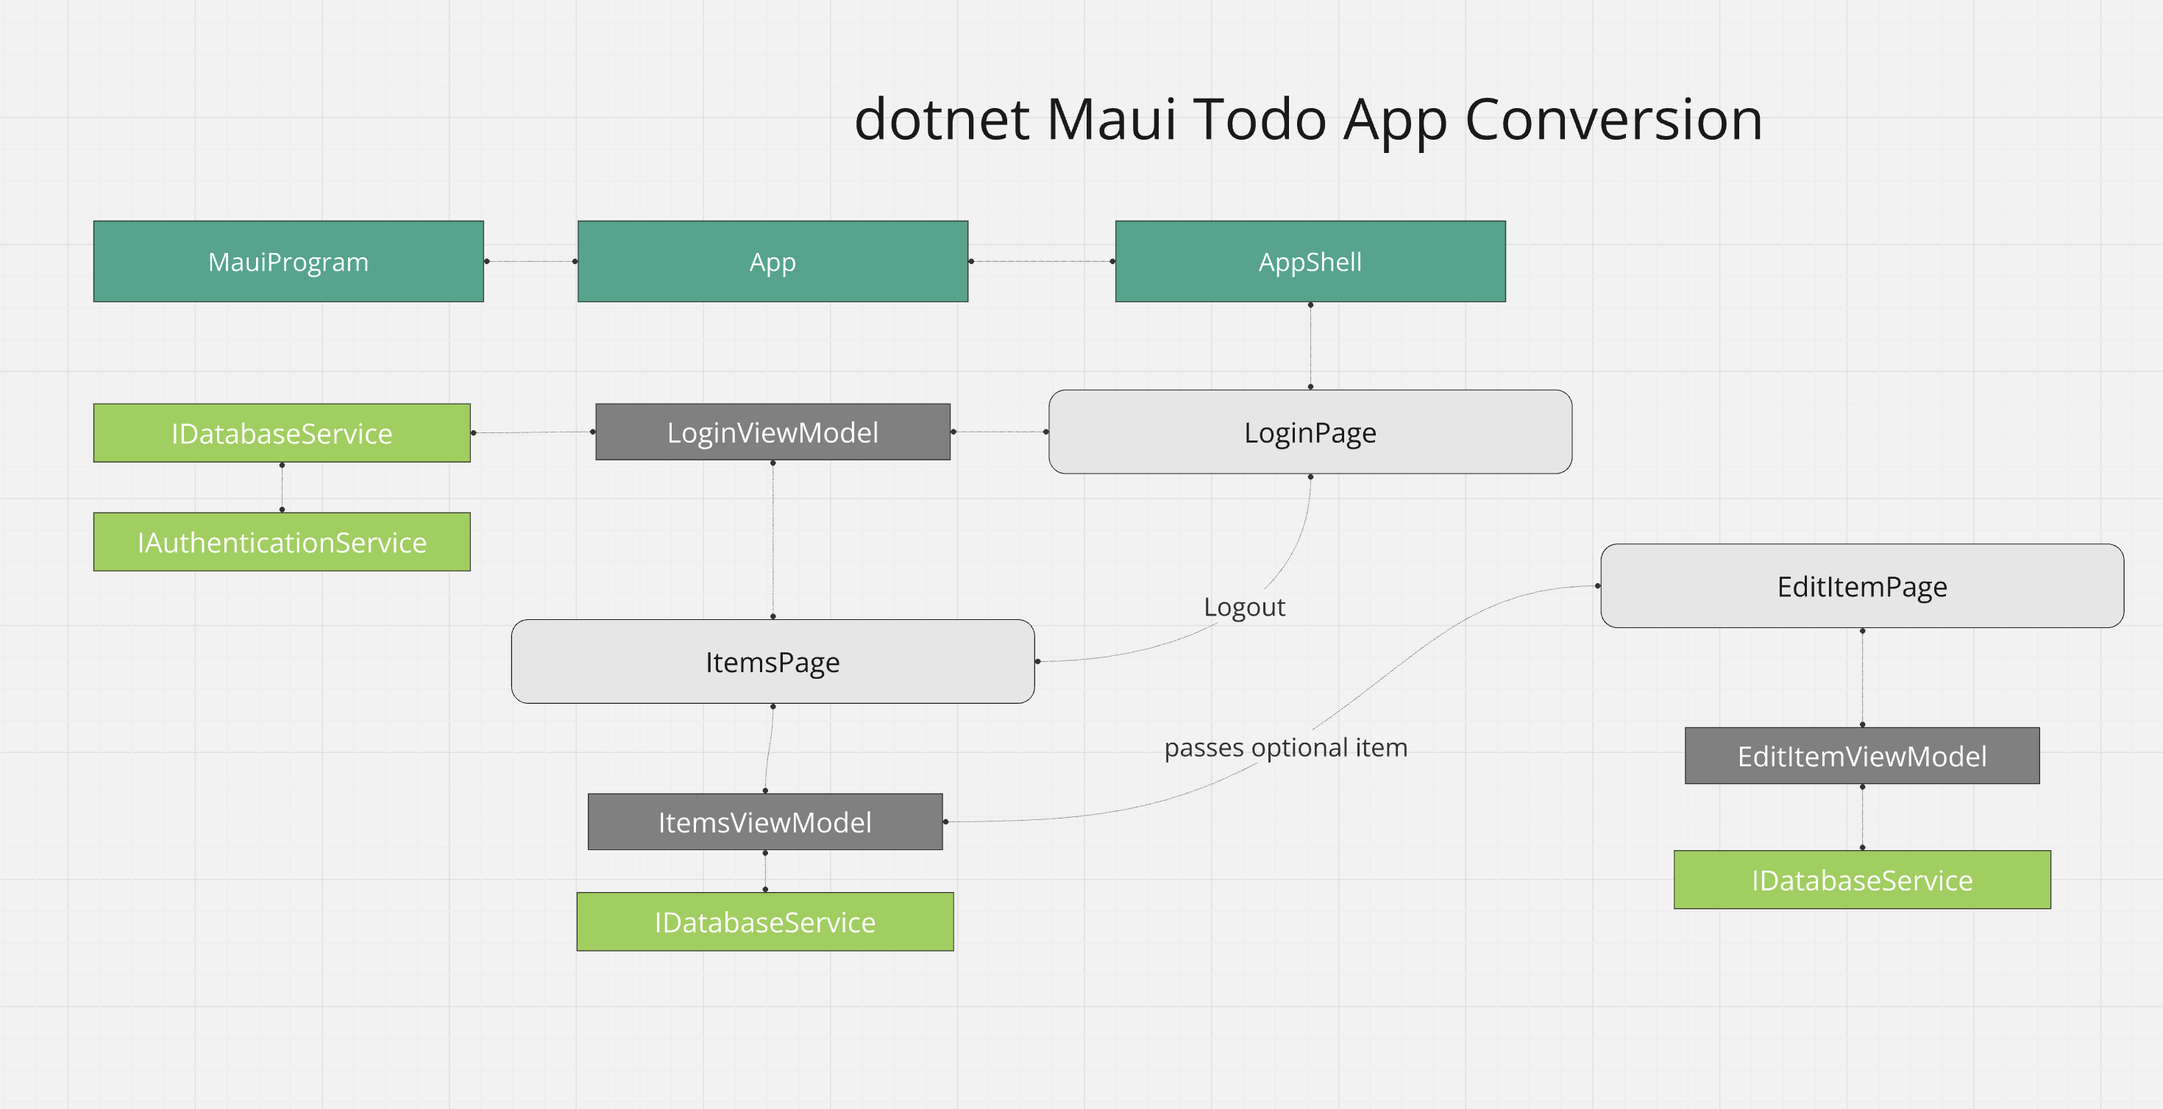
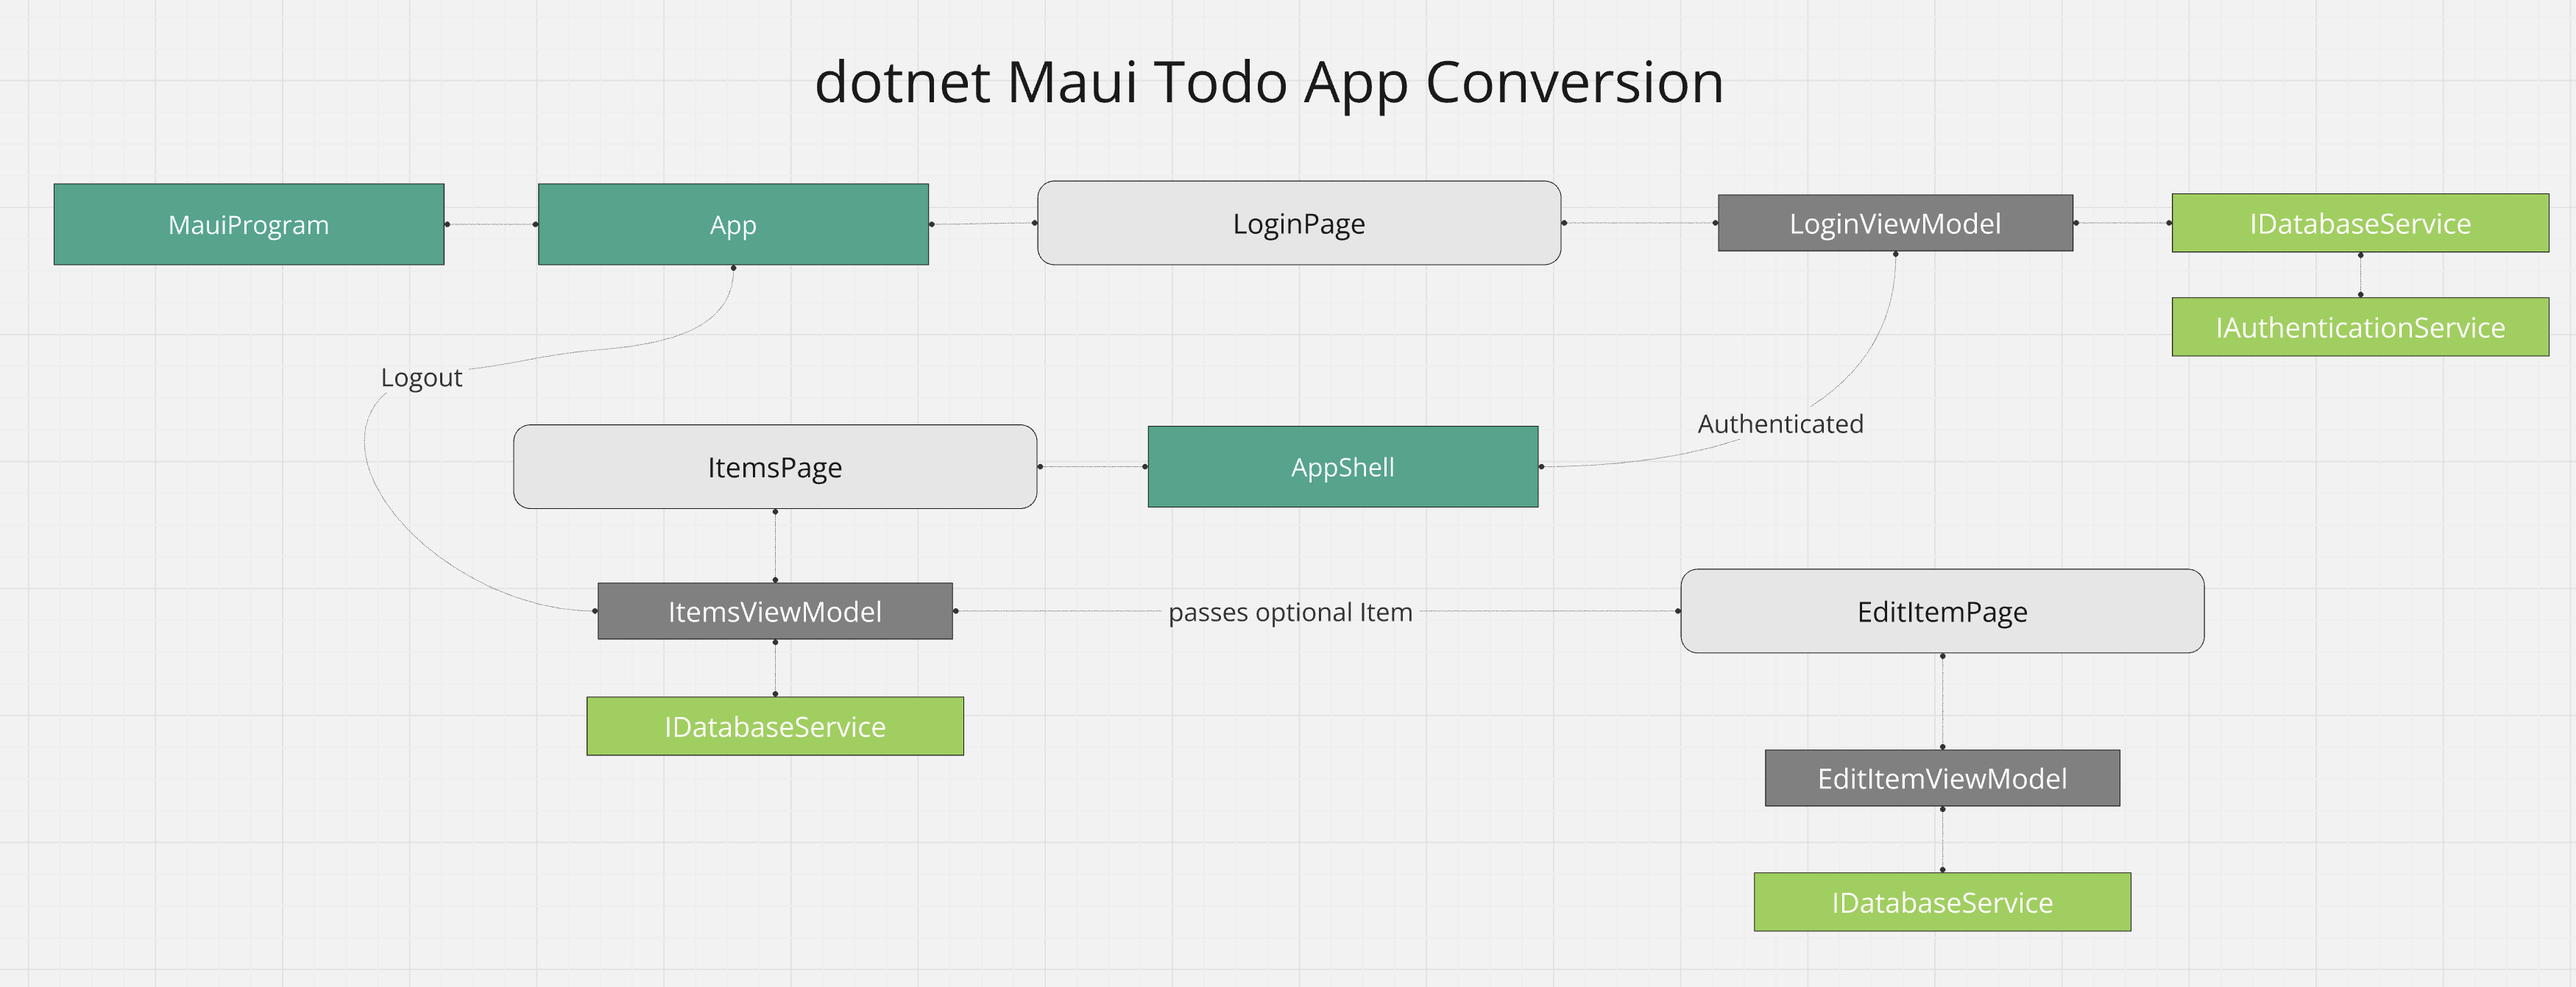
updated app directions

diff --git a/README.md b/README.md
@@ -23,9 +23,9 @@ The following is information on the application conversion process and what file
 
 ## Nuget Changes
 
-The original version of the application was based on .NET version 7.0 and the Maui Workload for .NET 7.0.  The app was upgraded to .NET 8 and the Maui workload for .NET 8 because this release is under long-term support from Microsoft (LTS).  
+The application was initially built using .NET 7.0 and the .NET MAUI workload for that version. It has since been upgraded to .NET 8 and the corresponding .NET MAUI workload to take advantage of Microsoft’s long-term support (LTS) for this release.
 
-The [Couchbase Lite Nuget package](https://docs.couchbase.com/couchbase-lite/current/csharp/gs-install.html) was added to the [RealmToDo.csproj](https://github.com/couchbaselabs/cbl-template-app-maui-todo/blob/main/RealmTodo/RealmTodo.csproj#L48) file.  
+The Realm SDK Nuget packages were removed from the project.  The [Couchbase Lite Nuget package](https://docs.couchbase.com/couchbase-lite/current/csharp/gs-install.html) was added to the [RealmToDo.csproj](https://github.com/couchbaselabs/cbl-template-app-maui-todo/blob/main/RealmTodo/RealmTodo.csproj#L48) file.  
 
 ```xml 
 <ItemGroup>
@@ -41,5 +41,91 @@ The original source code had the configuration for Atlas App Services stored in 
 
 You will need to modify this file to add your Couchbase Capella App Services endpoint URL, as outlined in the [Capella setup instructions](./Capella.md).
 
-## App Builder changes
+## FodyWeavers Removal
+FodyWeawvers is used for the Realm Atlas Device SDK for LINQ support.  This was removed from the project as it is not needed for Couchbase Lite.
 
+## Android Registration for Couchbase Lite
+The Couchbase Lite SDK requires [registration of the SDK for Android](https://docs.couchbase.com/couchbase-lite/current/csharp/gs-install.html#activating-on-android-platform-only).  The [MainApplication](https://github.com/mongodb/template-app-maui-todo/blob/main/RealmTodo/Platforms/Android/MainApplication.cs) class was modified to register the Couchbase Lite SDK.
+
+```csharp
+
+```
+
+
+## Changes to Services 
+
+### Registering of Interfaces, Services, ViewModels, and Views
+
+The original source code relied on static classes for accessing services, which made testing challenging. To improve testability, the standard Dependency Injection (DI) pattern available in .NET MAUI was adopted.  The [MauiProgram.cs](https://github.com/couchbaselabs/cbl-template-app-maui-todo/blob/main/RealmTodo/MauiProgram.cs#L27) file was updated to register all services, view models, and views with the DI container using the builder.
+
+```csharp
+builder.Services.AddSingleton<IDatabaseService, CouchbaseService>();
+builder.Services.AddSingleton<IAuthenticationService, AuthenticationService>();
+       
+//add view models
+builder.Services.AddTransient <EditItemViewModel>();
+builder.Services.AddTransient <ItemsViewModel>();
+builder.Services.AddTransient <LoginViewModel>();
+        
+//add the views
+builder.Services.AddTransient <EditItemPage>();
+builder.Services.AddTransient <ItemsPage>();
+builder.Services.AddTransient <LoginPage>();
+```
+
+### Authentication
+
+The original source code uses the [Realms.Sync.App](https://github.com/mongodb/template-app-maui-todo/blob/main/RealmTodo/Services/RealmService.cs#L12C24-L12C39) to [handle authentication](https://github.com/mongodb/template-app-maui-todo/blob/main/RealmTodo/Services/RealmService.cs#L75).  
+
+The [Couchbase Lite SDK](https://docs.couchbase.com/couchbase-lite/current/android/replication.html#lbl-user-auth)  manages authentication differently than the [Mongo Realm SDK](https://www.mongodb.com/docs/atlas/device-sdks/sdk/dotnet/manage-users/authenticate/).  Code was added to deal with these differences. 
+
+### Handling Authencation of the App
+
+The authentication of the app is called from the [IAuthenticationService](https://github.com/couchbaselabs/cbl-template-app-maui-todo/blob/main/RealmTodo/Services/IAuthenticationService.cs#L5) interface.  The implementation [AuthenticationService](https://github.com/couchbaselabs/cbl-template-app-maui-todo/blob/main/RealmTodo/Services/AuthenticationService.cs#L6) was added to handle the authentication of the app. 
+
+ Authentication is done via the Couchbase Capella App Services Endpoint public [REST API](https://docs.couchbase.com/cloud/app-services/references/rest_api_admin.html) in the CouchbaseService [LoginAsync method](https://github.com/couchbaselabs/cbl-template-app-maui-todo/blob/main/RealmTodo/Services/CouchbaseService.cs#L249) to resolve the SDK differences between Realm SDK and Couchbase Lite SDK without having to refactor large chunks of code. 
+
+
+> **NOTE**
+>Registering new users is out of scope of the conversion, so this functionaliy was removed.  Capella App Services allows the creating of Users per endpoint via the [UI](https://docs.couchbase.com/cloud/app-services/user-management/create-user.html#usermanagement/create-app-role.adoc) or the [REST API](https://docs.couchbase.com/cloud/app-services/references/rest_api_admin.html).  For large scale applications it's highly recommended to use a 3rd party [OpendID Connect](https://docs.couchbase.com/cloud/app-services/user-management/set-up-authentication-provider.html) provider. 
+>
+
+### Create User Model
+
+The Couchbase Lite SDK doesn't provide a user object for tracking the authenticated user, so a [new model](https://github.com/couchbaselabs/cbl-realm-template-app-kotlin-todo/blob/main/app/src/main/java/com/mongodb/app/domain/User.kt) was created. 
+
+### Updating Item Domain Model
+
+The [Item](https://github.com/couchbaselabs/cbl-template-app-maui-todo/blob/main/RealmTodo/Models/Item.cs#L8) class was modified to remove the Realm annotations and to refactor some properties to meet standard .NET naming conventions.
+
+The .NET serialization library makes it easy to convert the item class to a JSON string for storage in Couchbase Lite, so changes were made to the class to make it serializable by the .NET serialization library.
+
+Some fields need to be "Observable" in order for the UI in the application to dynamically update if changes are detected.  Those fields the SetProperty and OnPropertyChanged methods were implemented from the [MVVM toolkit](https://learn.microsoft.com/en-us/dotnet/communitytoolkit/mvvm/). 
+
+
+### IDatabaseService Interface
+
+The original source code had a [RealmService](https://github.com/mongodb/template-app-maui-todo/blob/main/RealmTodo/Services/RealmService.cs#L8) class that was used to interact with the Realm Atlas Device SDK and was a static class.  This was replaced with an [IDatabaseService](https://github.com/couchbaselabs/cbl-template-app-maui-todo/blob/main/RealmTodo/Services/IDatabaseService.cs#L6) interface and a [CouchbaseService](https://github.com/couchbaselabs/cbl-template-app-maui-todo/blob/main/RealmTodo/Services/CouchbaseService.cs) class that implements the interface.  The `CouchbaseService` class is used to interact with the Couchbase Lite SDK. 
+
+### Implementation of CouchbaseService 
+A heavy amount of code was refactored to implement the [CouchbaseService](https://github.com/couchbaselabs/cbl-template-app-maui-todo/blob/main/RealmTodo/Services/CouchbaseService.cs) from the original [RealmService](https://github.com/mongodb/template-app-maui-todo/blob/main/RealmTodo/Services/RealmService.cs).  The highlights of those changes are as follows. 
+
+### Init Method 
+
+The Init method was updated to start Couchbase logging and to read in the file from the `capellaConfig.json` file.
+
+```csharp
+Database.Log.Console.Level = LogLevel.Debug;
+Database.Log.Console.Domains = LogDomain.All;
+
+//get the config from disk
+await using var fileStream = await FileSystem.Current.OpenAppPackageFileAsync("capellaConfig.json");
+using StreamReader reader = new(fileStream);
+var fileContent = await reader.ReadToEndAsync();
+AppConfig = JsonSerializer.Deserialize<CouchbaseAppConfig>(
+  fileContent,
+  new JsonSerializerOptions { PropertyNameCaseInsensitive = true }
+);
+```
+> **NOTE**
+> For more information on logging in Couchbase Lite, please review the [Documentation](https://docs.couchbase.com/couchbase-lite/current/csharp/troubleshooting-logs.html).

diff --git a/Capella.md b/Capella.md
@@ -1,0 +1,82 @@
+# Setup Couchbase Capella App Services
+This guide provides step-by-step instructions for configuring a Couchbase Capella App Services instance, which the mobile application will utilize to store and retrieve data from the cloud.  
+
+## Sign up for free account
+
+Follow the full set of directions for [setting up a free account](https://docs.couchbase.com/cloud/get-started/create-account.html).
+
+## Setup App Services instance
+
+Once you have followed the directions for setting up your cluster, follow the [directions for setting up App Services](https://docs.couchbase.com/cloud/get-started/create-account.html#app-services).
+
+## Create Scope/Collection for Data Storage
+
+When you log into Capella you should be at the Operational Cluster tab.  Click on cluster listed in the provided cluster listing.  The Home tab will appear and a listing of options should be presented. 
+
+Click on the Data Tools tab.  Once there, click the "+ Create" button on the left side of the navigation menu to create a new Scope and Collection. 
+
+The "Create a Bucket, Scope, and Collection" dialog will appear.  Enter the following information:
+
+1. Select "Existing" and make sure the bucket is selected is `travel-sample`
+
+2. For Scope, select New and enter the name of `data`
+
+3. For Collection, select New and enter the name `tasks`
+
+Click the Create button to create the new Scope and Collection.
+
+## Setup App Services Endpoint
+
+Click the App Services tab and select your created App Service from the Setup App Service Instance step.  The App Endpoints listing should appear.  Click on the + Create App Endpoint to create a new endpoint.
+
+When the Create App Endpoint screen appears enter the following information:
+
+- For the Name field enter `tasks`
+- For the Bucket, select `travel-sample`
+- For the Scope, select `data`
+- Under "Choose collections to link", select the Link option for the `tasks` collection
+
+Click the Create button to create the new App Endpoint.  Note it may take a few minutes for your App Endpoint to be created. 
+
+## Setup App Endpoint Users
+
+From the App Endpoints list, click on your newly created App Endpoint `tasks`.
+
+From the Access Control and Validation screen click the link at the top below the header to "Resume app endpoint". (Note that resuming the app endpoint can take up to 60 seconds).
+
+Click on the App Users tab from the navigation menu on the left and then click the "+ Create App Users" button.
+
+Enter the following information:
+
+- For the App User Name enter: `demo1@example.com`
+- For the App User Password enter:  `P@ssw0rd12`
+
+Click the chevron for "Configure Access Grants".  Now under the "Assign Channels" enter the channel name `tasks` under the "Admin Channels" column.  Click the "Create App User" button to create the App User.
+
+Follow these steps to create a second App User with the following information:
+
+- For the App User Name enter: `demo2@example.com`
+- For the App User Password enter:  `P@ssw0rd12`
+
+## Get App Endpoint Connection Information
+
+From the App Endpoints section, click on the Connect tab.  The Connect Information screen will appear.  
+
+Copy the Public Connection URL that is provided.  This will be used in the mobile application to connect to the App Endpoint.
+
+Now open the `capellaConfig.json` file, which is located in the RealmToDo folder.
+
+Update the `endpointUrl` value with the Public Connection URL you copied from the App Endpoint.  
+
+When done it should look similar to the following:
+
+```json
+{
+  "endpointUrl": "wss://xxxxxxxxxxxx.apps.cloud.couchbase.com:4984/tasks",
+  "capellaUrl": "https://cloud.capella.com"
+}
+
+```
+
+> **WARNING**
+> Do NOT copy the URL from the above example as it will not work.
